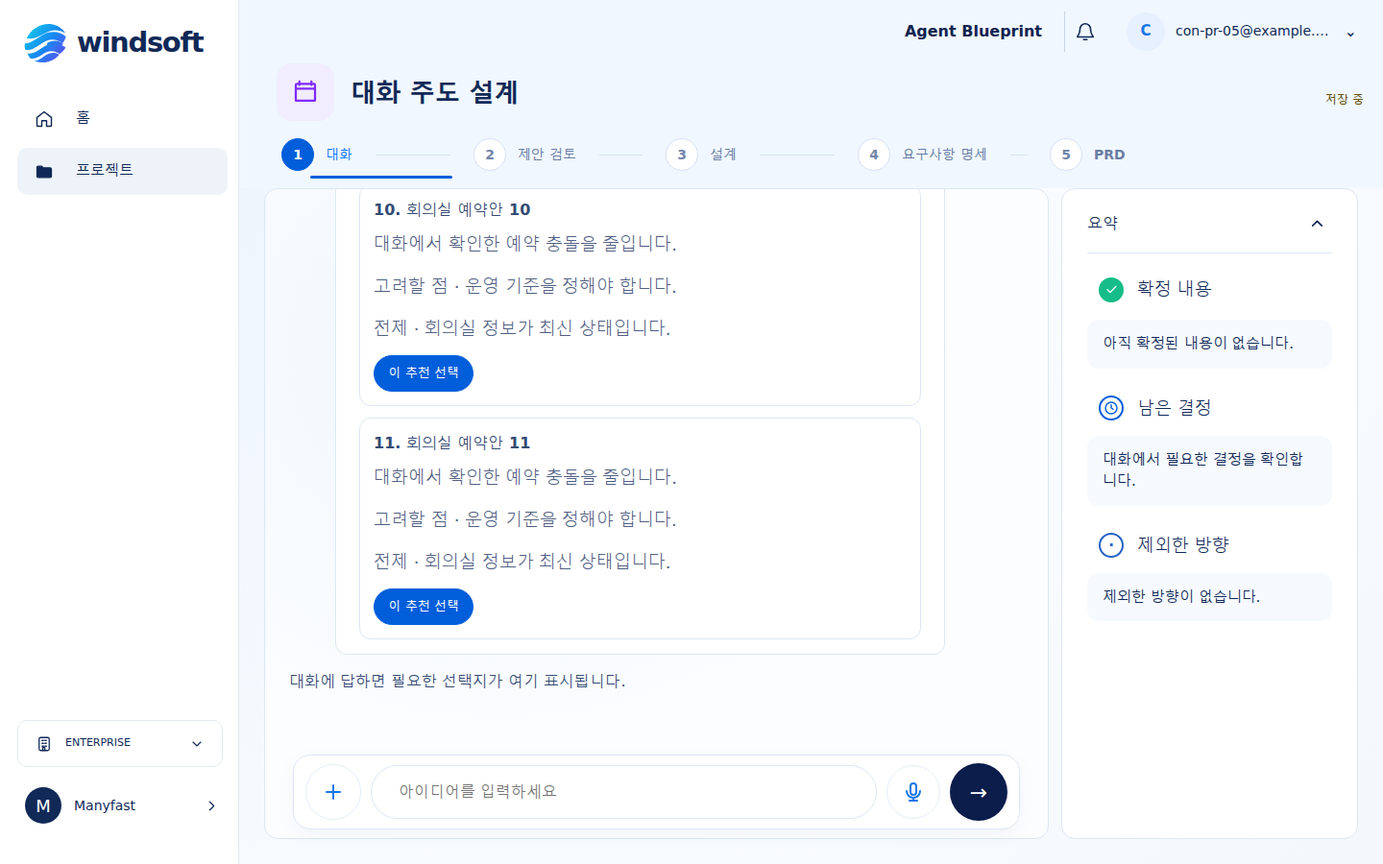
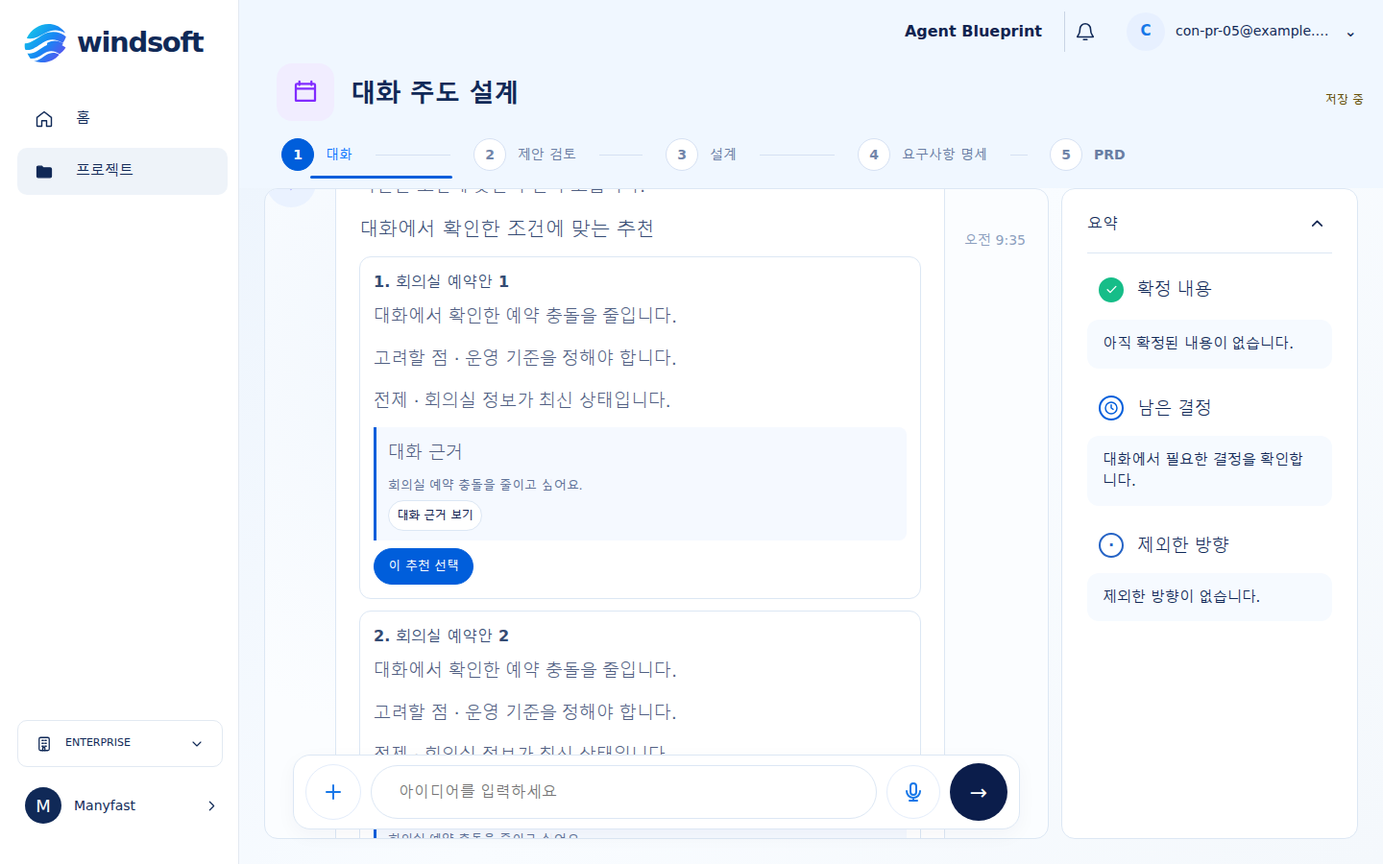
Persist and ground conversational turns

Changed region(s): [[0.2188, 0.2178, 0.5, 0.8711], [0.3125, 0.9644, 0.3438, 0.9956]]

diff --git a/tests/e2e/con-pr-05-conversation-flow.spec.ts b/tests/e2e/con-pr-05-conversation-flow.spec.ts
@@ -22,7 +22,7 @@ test.beforeEach(async({page})=>{
 
 test('free conversation, generated choice, eleven grounded candidates, approval and source navigation',async({page},testInfo)=>{
   const recommendationBlock={type:'recommendation_candidates',id:'recommendations-1',candidates:Array.from({length:11},(_,index)=>({
-    id:`candidate-${index+1}`,title:`회의실 예약안 ${index+1}`,rationale:'대화에서 확인한 예약 충돌을 줄입니다.',tradeoffs:['운영 기준을 정해야 합니다.'],assumptions:['회의실 정보가 최신 상태입니다.'],evidence:[{sourceType:'message',sourceId:'pending'}],
+    id:`candidate-${index+1}`,title:`회의실 예약안 ${index+1}`,rationale:'대화에서 확인한 예약 충돌을 줄입니다.',tradeoffs:['운영 기준을 정해야 합니다.'],assumptions:['회의실 정보가 최신 상태입니다.'],evidence:[{sourceType:'message',sourceId:'pending',excerpt:'회의실 예약 충돌을 줄이고 싶어요.'}],
     proposalDraft:{operation:'create',targetType:'design_item',after:{type:'requirement',title:`회의실 예약안 ${index+1}`,description:'회의실 예약 충돌을 사전에 확인합니다.'},rationale:'사용자가 선택한 추천안입니다.',evidence:[{sourceType:'message',sourceId:'pending'}],affectedItemIds:[]},
   }))};
   const requests:any[]=[];
@@ -30,6 +30,7 @@ test('free conversation, generated choice, eleven grounded candidates, approval 
   let readyRequest:any;
   let requirementsGenerateCalls=0;
   let prdGenerateRequest:any;
+  let recommendationSourceTurnId='';
   await page.route('**/api/blueprint/turn',async(route)=>{
     const body=route.request().postDataJSON();requests.push(body);
     if(body.userTurn.kind==='text'&&body.userTurn.text.includes('예약 충돌을 줄이고 싶어요')){
@@ -41,6 +42,7 @@ test('free conversation, generated choice, eleven grounded candidates, approval 
       return;
     }
     if(body.userTurn.kind==='text'&&body.userTurn.text.includes('추천해 주세요')){
+      recommendationSourceTurnId=body.userTurn.id;
       recommendationBlock.candidates.forEach((candidate)=>{candidate.evidence[0].sourceId=body.userTurn.id;candidate.proposalDraft.evidence[0].sourceId=body.userTurn.id;});
       await route.fulfill({status:200,json:{assistantMessage:'확인한 조건에 맞는 추천 후보입니다.',proposals:[],recommendationCandidates:recommendationBlock,referencedItemIds:[],referencedSourceIds:[]}});
       return;
@@ -103,6 +105,9 @@ test('free conversation, generated choice, eleven grounded candidates, approval 
   await page.getByRole('button',{name:'AI로 답변 분석'}).click();
   await expect(page.getByRole('heading',{name:'대화에서 확인한 조건에 맞는 추천'})).toBeVisible();
   await expect(page.getByRole('button',{name:'이 추천 선택'})).toHaveCount(11);
+  await expect(page.locator('.recommendation-candidates li').first().getByText('회의실 예약 충돌을 줄이고 싶어요.',{exact:true})).toBeVisible();
+  await page.getByRole('button',{name:'대화 근거 보기'}).first().click();
+  await expect(page.locator(`#conversation-message-${recommendationSourceTurnId}`)).toBeFocused();
   await expect(page.locator('.ai-turn-cancel')).toBeHidden();
   await page.screenshot({path:`.pr-artifacts/CON-PR-05/${testInfo.project.name}-recommendation-11.png`,scale:'css'});
   await page.getByRole('button',{name:'이 추천 선택'}).first().click();
@@ -223,6 +228,7 @@ test('renders number, range and rank follow-ups as typed decision controls',asyn
   await page.getByRole('checkbox',{name:/충돌 방지/}).check();
   await page.getByRole('button',{name:'collision 순위 위로'}).click();
   await page.getByRole('button',{name:'답변 제출'}).last().click();
+  await expect(page.locator('.workspace-message-assistant').filter({hasText:'정한 기준을 기록했습니다.'})).toBeVisible();
   expect(submissions[0].userTurn.text).toContain('예약 수용량');
   expect(submissions[1].userTurn.text).toBe('24');
   expect(submissions[2].userTurn.text).toBe('9–18');
@@ -260,4 +266,73 @@ test('insufficient recommendation context asks one contextual follow-up without 
   expect(response).not.toHaveProperty('recommendationCandidates');
   expect(response.followUp.prompt).toBe('어떤 점을 우선해서 비교할까요?');
   await page.screenshot({path:`.pr-artifacts/CON-PR-05/${testInfo.project.name}-insufficient-recommendation-context.png`,scale:'css'});
+});
+
+test('persists each turn before dispatch and before showing the assistant result, retaining input for retry',async({page})=>{
+  const requests:any[]=[];
+  const ownerKey=await deriveOwnerKey(identity);
+  const databaseName=databaseNameForOwner(ownerKey);
+  const userPersistedAtDispatch:boolean[]=[];
+  await page.route('**/api/blueprint/turn',async(route)=>{
+    const body=route.request().postDataJSON();
+    requests.push(body);
+    userPersistedAtDispatch.push(await page.evaluate(async({databaseName,projectId,userTurnId})=>{
+      const db=await new Promise<IDBDatabase>((resolve,reject)=>{const req=indexedDB.open(databaseName,1);req.onsuccess=()=>resolve(req.result);req.onerror=()=>reject(req.error);});
+      const tx=db.transaction('projects');
+      const record=await new Promise<any>((resolve,reject)=>{const req=tx.objectStore('projects').get(projectId);req.onsuccess=()=>resolve(req.result);req.onerror=()=>reject(req.error);});
+      await new Promise<void>((resolve,reject)=>{tx.oncomplete=()=>resolve();tx.onerror=()=>reject(tx.error);});db.close();
+      return record.messages.some((message:any)=>message.id===userTurnId&&message.role==='user');
+    },{databaseName,projectId,userTurnId:body.userTurn.id}));
+    await route.fulfill({status:200,json:{assistantMessage:'저장된 응답입니다.',proposals:[],referencedItemIds:[],referencedSourceIds:[]}});
+  });
+  await page.goto(`/blueprints/${projectId}`);
+  await page.evaluate(()=>{
+    const original=IDBObjectStore.prototype.put;
+    (window as any).__turnPersistenceFailures={user:true,assistant:true};
+    IDBObjectStore.prototype.put=function(value:any,...args:any[]){
+      const messages=value?.messages??[];
+      if(messages.some((message:any)=>message.role==='user'&&message.content==='예약 충돌을 줄이고 싶어요.')&&(window as any).__turnPersistenceFailures.user){
+        (window as any).__turnPersistenceFailures.user=false;
+        throw new DOMException('Injected user-turn save failure','QuotaExceededError');
+      }
+      if(messages.some((message:any)=>message.role==='assistant'&&message.content==='저장된 응답입니다.')&&(window as any).__turnPersistenceFailures.assistant){
+        (window as any).__turnPersistenceFailures.assistant=false;
+        throw new DOMException('Injected assistant-turn save failure','QuotaExceededError');
+      }
+      return original.call(this,value,...args);
+    };
+  });
+  const draft=page.getByRole('textbox',{name:'AI에 보낼 자유 답변'});
+  await draft.fill('예약 충돌을 줄이고 싶어요.');
+  await page.getByRole('button',{name:'AI로 답변 분석'}).click();
+  await page.getByRole('button',{name:'동의하고 계속'}).click();
+  await expect(page.locator('.ai-turn-composer [role="alert"]')).toContainText('저장하지 못해 요청을 보내지 않았습니다');
+  expect(requests).toHaveLength(0);
+  await expect(draft).toHaveValue('예약 충돌을 줄이고 싶어요.');
+  await expect(page.locator('.workspace-first-message').getByText('예약 충돌을 줄이고 싶어요.',{exact:true})).toHaveCount(0);
+
+  await page.getByRole('button',{name:'AI로 답변 분석'}).click();
+  await expect(page.locator('.ai-turn-composer [role="alert"]')).toContainText('응답을 저장하지 못했습니다');
+  expect(requests).toHaveLength(1);
+  await expect(page.getByText('저장된 응답입니다.',{exact:true})).toHaveCount(0);
+  await expect(page.locator('.workspace-first-message').getByText('예약 충돌을 줄이고 싶어요.',{exact:true})).toBeVisible();
+  await expect(draft).toHaveValue('예약 충돌을 줄이고 싶어요.');
+
+  await page.getByRole('button',{name:'AI로 답변 분석'}).click();
+  await expect(page.getByText('저장된 응답입니다.',{exact:true})).toBeVisible();
+  expect(requests).toHaveLength(2);
+  expect(userPersistedAtDispatch).toEqual([true,true]);
+  expect(requests[1].logicalRequestId).toBe(requests[0].logicalRequestId);
+  expect(requests[1].userTurn.id).toBe(requests[0].userTurn.id);
+  expect(requests[1].attemptId).not.toBe(requests[0].attemptId);
+  await expect(draft).toHaveValue('');
+  await expect(page.locator('.workspace-first-message').getByText('예약 충돌을 줄이고 싶어요.',{exact:true})).toHaveCount(1);
+  const persisted=await page.evaluate(async({databaseName,projectId})=>{
+    const db=await new Promise<IDBDatabase>((resolve,reject)=>{const req=indexedDB.open(databaseName,1);req.onsuccess=()=>resolve(req.result);req.onerror=()=>reject(req.error);});
+    const tx=db.transaction('projects');
+    const record=await new Promise<any>((resolve,reject)=>{const req=tx.objectStore('projects').get(projectId);req.onsuccess=()=>resolve(req.result);req.onerror=()=>reject(req.error);});
+    await new Promise<void>((resolve,reject)=>{tx.oncomplete=()=>resolve();tx.onerror=()=>reject(tx.error);});db.close();
+    return record.messages.filter((message:any)=>message.content==='예약 충돌을 줄이고 싶어요.'||message.content==='저장된 응답입니다.').map((message:any)=>({role:message.role,content:message.content}));
+  },{databaseName,projectId});
+  expect(persisted).toEqual([{role:'user',content:'예약 충돌을 줄이고 싶어요.'},{role:'assistant',content:'저장된 응답입니다.'}]);
 });

diff --git a/src/components/blueprint/display-blocks/DisplayBlocks.tsx b/src/components/blueprint/display-blocks/DisplayBlocks.tsx
@@ -1,4 +1,4 @@
-import type { DisplayBlock, QuestionSpec } from '../../../domain/blueprint/types.js';
+import type { ConversationMessage, DisplayBlock, QuestionSpec } from '../../../domain/blueprint/types.js';
 import { prepareDisplayBlocks } from '../../../features/conversation/block-renderer.js';
 import { QuestionCard } from '../../conversation/QuestionCard.js';
 import type { CatalogQuestion } from '../../../features/conversation/questionEngine.js';
@@ -7,13 +7,13 @@ import type { ContextualResponse } from '../../conversation/ContextualQuestionCa
 
 type QuestionAnswerDraft = { action:'answer'|'unknown'|'recommend'|'defer'|'skip'; selectedValues:string[]; customText:string; numberValue?:number; rangeValue?:{start:number;end:number}; rankedValues?:string[] };
 
-export function DisplayBlocks({ blocks, questionCatalog = [], proposalIds = [], messageId, onContextualSubmit, onQuestionSubmit }: { blocks: unknown[]; questionCatalog?: QuestionSpec[]; proposalIds?: string[]; messageId?:string; onContextualSubmit?:(response:ContextualResponse)=>void; onQuestionSubmit?: (question:CatalogQuestion,answer:QuestionAnswerDraft,mode:CatalogQuestion['answerMode'])=>void }) {
+export function DisplayBlocks({ blocks, questionCatalog = [], proposalIds = [], messages = [], messageId, onNavigateSource, onContextualSubmit, onQuestionSubmit }: { blocks: unknown[]; questionCatalog?: QuestionSpec[]; proposalIds?: string[]; messages?:ConversationMessage[]; messageId?:string; onNavigateSource?:(messageId:string)=>void; onContextualSubmit?:(response:ContextualResponse)=>void; onQuestionSubmit?: (question:CatalogQuestion,answer:QuestionAnswerDraft,mode:CatalogQuestion['answerMode'])=>void }) {
   const result = prepareDisplayBlocks(blocks, { questionCatalog, proposalIds });
   if (!result.valid) return <p role="alert">AI 응답을 표시할 수 없습니다. (AI_INVALID_OUTPUT)</p>;
   return <div className="ai-display-blocks">{result.blocks.map((block, index) => <article className={`ai-block ai-block-${block.type}`} key={`${block.type}-${index}`}>
     {block.type === 'assistant_text' ? <p>{block.content}</p> : null}
     {block.type === 'question' ? messageId && onContextualSubmit ? <ContextualQuestionCard question={block} messageId={messageId} onSubmit={onContextualSubmit} /> : (() => { const candidate = questionCatalog.find((question) => question.id === block.id); return candidate && onQuestionSubmit ? <QuestionCard question={candidate as CatalogQuestion} onSubmit={(answer,mode)=>onQuestionSubmit(candidate as CatalogQuestion,answer,mode)} /> : <p role="alert">질문을 표시할 수 없습니다. (AI_INVALID_OUTPUT)</p>; })() : null}
-    {block.type === 'recommendation_candidates' ? <section className="recommendation-candidates" aria-labelledby={`recommendations-${block.id}`}><h2 id={`recommendations-${block.id}`}>대화에서 확인한 조건에 맞는 추천</h2><ol>{block.candidates.map((candidate,index)=><li key={candidate.id}><article><h3>{index+1}. {candidate.title}</h3><p>{candidate.rationale}</p>{candidate.tradeoffs.length ? <p><strong>고려할 점</strong> · {candidate.tradeoffs.join(' · ')}</p> : null}{candidate.assumptions.length ? <p><strong>전제</strong> · {candidate.assumptions.join(' · ')}</p> : null}<button type="button" disabled={!messageId || !onContextualSubmit} onClick={()=>onContextualSubmit?.({kind:'recommendation_choice',text:`추천 ${index+1}번을 선택합니다: ${candidate.title}`,responseTo:{messageId:messageId!,blockId:block.id,selectedValues:[],choiceId:candidate.id}})}>이 추천 선택</button></article></li>)}</ol></section> : null}
+    {block.type === 'recommendation_candidates' ? <section className="recommendation-candidates" aria-labelledby={`recommendations-${block.id}`}><h2 id={`recommendations-${block.id}`}>대화에서 확인한 조건에 맞는 추천</h2><ol>{block.candidates.map((candidate,index)=><li key={candidate.id}><article><h3>{index+1}. {candidate.title}</h3><p>{candidate.rationale}</p>{candidate.tradeoffs.length ? <p><strong>고려할 점</strong> · {candidate.tradeoffs.join(' · ')}</p> : null}{candidate.assumptions.length ? <p><strong>전제</strong> · {candidate.assumptions.join(' · ')}</p> : null}<div className="recommendation-evidence-list" aria-label={`${index+1}번 추천 근거`}>{candidate.evidence.map((evidence,evidenceIndex)=>{const sourceMessage=evidence.sourceType==='message'?messages.find((message)=>message.id===evidence.sourceId):undefined;const provenance=evidence.sourceType==='message'?'대화 근거':evidence.sourceType==='file'?'자료 근거':evidence.sourceType==='user_edit'?'사용자 수정 근거':'AI 추론';return <div className="recommendation-evidence" key={`${evidence.sourceType}-${evidence.sourceId}-${evidenceIndex}`}><p><strong>{provenance}</strong>{evidence.location?` · ${evidence.location}`:''}</p>{evidence.excerpt||sourceMessage?<blockquote>{evidence.excerpt||sourceMessage?.content}</blockquote>:<p>출처 위치: {evidence.sourceId}</p>}{sourceMessage&&onNavigateSource?<button className="recommendation-source-link" type="button" onClick={()=>onNavigateSource(sourceMessage.id)}>대화 근거 보기</button>:null}</div>;})}</div><button type="button" disabled={!messageId || !onContextualSubmit} onClick={()=>onContextualSubmit?.({kind:'recommendation_choice',text:`추천 ${index+1}번을 선택합니다: ${candidate.title}`,responseTo:{messageId:messageId!,blockId:block.id,selectedValues:[],choiceId:candidate.id}})}>이 추천 선택</button></article></li>)}</ol></section> : null}
     {block.type === 'explanation' ? <section><h2>{block.title}</h2><p>{block.summary}</p>{block.comparisons.map((item) => <p key={item.label}><strong>{item.label}</strong> {item.description}</p>)}{block.example ? <p>{block.example}</p> : null}</section> : null}
     {block.type === 'recommendation' ? <section><h2>추천</h2><p>{block.recommendedValue} — {block.rationale}</p><ul>{block.tradeoffs.map((item) => <li key={item}>{item}</li>)}</ul></section> : null}
     {block.type === 'proposal_summary' || block.type === 'conflict_notice' ? <p>{block.type === 'conflict_notice' ? '검토할 충돌이 있습니다.' : '검토할 변경 제안이 있습니다.'} ({block.proposalIds.length})</p> : null}

diff --git a/src/components/conversation/AiTurnComposer.tsx b/src/components/conversation/AiTurnComposer.tsx
@@ -29,6 +29,7 @@ export function AiTurnComposer({ aggregate, projectId, onAggregateChange, persis
   const [confirmedUnknownJobId, setConfirmedUnknownJobId] = useState<string|null>(null);
   useEffect(() => { const timer=window.setInterval(()=>setRecoveryNow(Date.now()),60_000); return ()=>window.clearInterval(timer); }, []);
   const controllerRef = useRef<AbortController|null>(null);
+  const pendingTurnRef = useRef<{text:string;logicalRequestId:string;userMessage:ConversationMessage}|null>(null);
   const aggregateRef = useRef(aggregate);
   aggregateRef.current = aggregate;
   const unknownJob = aggregate.generationJobs.filter((item)=>item.errorCode==='AI_REQUEST_UNKNOWN').sort((a,b)=>(b.finishedAt??'').localeCompare(a.finishedAt??''))[0];
@@ -73,9 +74,17 @@ export function AiTurnComposer({ aggregate, projectId, onAggregateChange, persis
       if (!valid.valid) throw new Error('AI_INVALID_OUTPUT');
       const message: ConversationMessage = { id:crypto.randomUUID(), threadId:latest.thread.id, logicalRequestId, role:'assistant',kind:'text',content:data.assistantMessage,blocks:nextBlocks,createdAt:new Date().toISOString() };
       const succeededJob: GenerationJob = {...nextJob,status:'succeeded',finishedAt:new Date().toISOString()};
-      setJob(succeededJob);
       const updated: BlueprintAggregate = {...latest,messages:[...latest.messages,message],proposals:[...latest.proposals,...proposals],generationJobs:[...latest.generationJobs.filter((item)=>item.id!==nextJob.id),succeededJob]};
+      try {
+        await persistAggregate(updated);
+      } catch {
+        updateJob({...nextJob,status:'failed',errorCode:'STORAGE_FAILED',finishedAt:new Date().toISOString()});
+        setError('응답을 저장하지 못했습니다. 입력을 유지한 채 다시 시도할 수 있습니다.');
+        return;
+      }
+      setJob(succeededJob);
       aggregateRef.current = updated; onAggregateChange(updated);
+      pendingTurnRef.current = null;
       setDraft(''); setConfirmedUnknownJobId(null);
     } catch (cause) {
       if (controller.signal.aborted) {
@@ -90,12 +99,27 @@ export function AiTurnComposer({ aggregate, projectId, onAggregateChange, persis
   async function submitTurn(text:string, kind:'text'|'choice'|'recommendation_choice'='text', responseTo?:ContextualResponse['responseTo']) {
     const current = aggregateRef.current;
     text = text.trim(); if (!text || busy || recovery.blocked) return;
-    const logicalRequestId = crypto.randomUUID();
-    const now = new Date().toISOString();
-    const userMessage: ConversationMessage = { id:crypto.randomUUID(), threadId:current.thread.id, logicalRequestId, role:'user', kind:'text', content:text, createdAt:now };
-    const withUserMessage = { ...current, messages:[...current.messages,userMessage], project:{ ...current.project, updatedAt:now } };
+    let pending = pendingTurnRef.current;
+    if (!pending || pending.text !== text) {
+      const now = new Date().toISOString();
+      const logicalRequestId = crypto.randomUUID();
+      pending = {text,logicalRequestId,userMessage:{id:crypto.randomUUID(),threadId:current.thread.id,logicalRequestId,role:'user',kind:'text',content:text,createdAt:now}};
+      pendingTurnRef.current = pending;
+    }
+    const {logicalRequestId,userMessage} = pending;
+    const alreadyPersisted = current.messages.some((message)=>message.id===userMessage.id);
+    const withUserMessage = alreadyPersisted ? current : { ...current, messages:[...current.messages,userMessage], project:{ ...current.project, updatedAt:userMessage.createdAt } };
+    setBusy(true); setError(null);
+    try {
+      if (!alreadyPersisted) await persistAggregate(withUserMessage);
+    } catch {
+      setBusy(false);
+      setError('입력을 저장하지 못해 요청을 보내지 않았습니다. 입력은 유지됩니다.');
+      return;
+    }
     aggregateRef.current = withUserMessage; onAggregateChange(withUserMessage);
-    const context = compactConversationContext({messages:current.messages,summary:current.thread.summary,threshold:20});
+    const contextMessagesBeforeTurn = current.messages.filter((message)=>message.id!==userMessage.id);
+    const context = compactConversationContext({messages:contextMessagesBeforeTurn,summary:current.thread.summary,threshold:20});
     const contextMessages = context.compacted ? [{id:`summary-${projectId}`,role:'assistant' as const,kind:'text' as const,content:JSON.stringify(context.summary)},...context.originalMessages] : context.originalMessages.filter((message)=>message.role!=='system');
     const sourceExcerpts = selectSourceExcerpts({ projectId, query:[text].filter(Boolean).join('\n'), sources:current.sources });
     const payload = { projectSummary:{projectId,title:current.project.title,designRevision:current.project.designRevision ?? 0}, userTurn:{id:userMessage.id,kind,text,...(responseTo ? {responseTo} : {})}, recentMessages:contextMessages.map((message)=>({id:message.id,role:message.role,kind:message.kind==='question'?'question' as const:'text' as const,content:message.content,...('blocks' in message && message.blocks ? {blocks:message.blocks} : {})})), relevantDesignItems:current.designItems.filter((item)=>item.status==='confirmed').map(({id,type,key,title,description,attributes})=>({id,type,...(key?{key}:{}),title,description,attributes})), sources:sourceExcerpts };

diff --git a/src/pages/ProjectPage.tsx b/src/pages/ProjectPage.tsx
@@ -340,6 +340,7 @@ export function ProjectPage({ repositoryFactory = getIndexedDbProjectRepository 
 
   async function persistAggregateNow(snapshot: BlueprintAggregate) {
     if (!ownerKey || !projectId || snapshot.project.id !== projectId) throw new Error("PROJECT_CONTEXT_STALE");
+    await flushProposalAutosave();
     await repositoryFactory().save(ownerKey, snapshot);
   }
 
@@ -843,7 +844,7 @@ export function ProjectPage({ repositoryFactory = getIndexedDbProjectRepository 
             <div id={firstVisibleUserMessage ? `conversation-message-${firstVisibleUserMessage.id}` : undefined} tabIndex={firstVisibleUserMessage ? -1 : undefined} className="conversation-message-row conversation-message-row-user"><ConversationAvatar role="user" /><article className="workspace-first-message"><span className="workspace-message-label">내 아이디어</span><p>{firstVisibleUserMessage?.content ?? (compactedConversation.compacted ? "요약 아래에 최근 대화가 표시됩니다." : "아직 대화가 없습니다.")}</p></article>{firstVisibleUserMessage?.createdAt ? <time className="conversation-message-time" dateTime={firstVisibleUserMessage.createdAt}>{formatConversationTime(firstVisibleUserMessage.createdAt)}</time> : null}</div>
             {visibleConversationMessages.filter((message) => message.id !== firstVisibleUserMessage?.id).map((message) => <div id={`conversation-message-${message.id}`} tabIndex={-1} key={message.id} className={`conversation-message-row conversation-message-row-${message.role}`}>
               {message.role === "assistant" ? <ConversationAvatar role="assistant" /> : null}
-              <article className={`workspace-message workspace-message-${message.role}`}><span className="workspace-message-label">{message.role === "assistant" ? "Agent" : message.role === "system" ? "작업 상태" : "나"}</span>{message.blocks ? <DisplayBlocks blocks={message.blocks} questionCatalog={QUESTION_CATALOG} proposalIds={aggregate.proposals.map((proposal) => proposal.id)} messageId={message.id} onContextualSubmit={(response)=>void contextualSubmitRef.current?.(response)} onQuestionSubmit={(question,answer,mode)=>saveQuestionAnswer(question,answer,mode)} /> : <p>{message.content}</p>}</article>
+              <article className={`workspace-message workspace-message-${message.role}`}><span className="workspace-message-label">{message.role === "assistant" ? "Agent" : message.role === "system" ? "작업 상태" : "나"}</span>{message.blocks ? <DisplayBlocks blocks={message.blocks} questionCatalog={QUESTION_CATALOG} proposalIds={aggregate.proposals.map((proposal) => proposal.id)} messages={aggregate.messages} messageId={message.id} onNavigateSource={navigateToSourceMessage} onContextualSubmit={(response)=>void contextualSubmitRef.current?.(response)} onQuestionSubmit={(question,answer,mode)=>saveQuestionAnswer(question,answer,mode)} /> : <p>{message.content}</p>}</article>
               {message.createdAt ? <time className="conversation-message-time" dateTime={message.createdAt}>{formatConversationTime(message.createdAt)}</time> : null}
             </div>)}
             {aggregate.generationJobs.filter((job) => job.status === "queued" || job.status === "running").map((job) => <GenerationJobStatus key={job.id} job={job} onCancel={cancelGenerationJob} />)}

diff --git a/tests/contract/con-pr-05-turn-contract.test.js b/tests/contract/con-pr-05-turn-contract.test.js
@@ -75,3 +75,18 @@ test('contextual follow-up rejects model-assigned IDs, arbitrary actions, and ex
   assert.equal(validateTurnAnalyzeV3({ ...validPayload, followUp: { ...choice, prompt: '<script>alert(1)</script>' } }, { text: '안녕하세요.' }).valid, false);
   assert.equal(validateTurnAnalyzeV3({ ...validPayload, followUp: { ...choice, options: [...choice.options, choice.options[0]] } }, { text: '안녕하세요.' }).valid, false);
 });
+
+test('turn contract rejects executable copy nested in proposal and recommendation fields', () => {
+  const proposal = { operation: 'create', targetType: 'design_item', after: { type: 'requirement', title: '안전한 제목', description: '<img src=x onerror=alert(1)>' }, rationale: '근거 있는 제안', evidence: [{ sourceType: 'message', sourceId: 'user-turn-1', excerpt: '안전한 근거' }], affectedItemIds: [] };
+  const nestedProposal = { ...validPayload, proposals: [{ ...proposal }] };
+  assert.equal(validateTurnAnalyzeV3(nestedProposal, { text: '예약 정책을 정리해 주세요.' }).valid, false);
+
+  const recommendations = Array.from({ length: 11 }, (_, index) => ({
+    title: `후보 ${index + 1}`, rationale: '현재 확인한 조건에 맞습니다.', tradeoffs: [], assumptions: [],
+    evidence: [{ sourceType: 'message', sourceId: 'user-turn-1' }], proposal: { ...proposal, after: { ...proposal.after, description: '안전한 설명' } },
+  }));
+  recommendations[4].evidence[0].excerpt = 'javascript:alert(1)';
+  const unsafeRecommendation = { ...validPayload, followUp: undefined, recommendations };
+  delete unsafeRecommendation.followUp;
+  assert.equal(validateTurnAnalyzeV3(unsafeRecommendation, { text: '추천해 주세요. 회의실 예약 충돌을 줄이고 싶어요.' }).valid, false);
+});

diff --git a/src/styles/question-card.css b/src/styles/question-card.css
@@ -36,6 +36,12 @@
 .recommendation-candidates h3,.recommendation-candidates p { margin: 0; }
 .recommendation-candidates h3 { font-size: 16px; line-height: 1.45; }
 .recommendation-candidates p { color: var(--color-text-muted); font-size: 13px; line-height: 1.5; }
+.recommendation-evidence-list { display: grid; gap: 8px; }
+.recommendation-evidence { display: grid; justify-items: start; gap: 5px; padding: 10px 12px; border-left: 3px solid var(--color-primary); border-radius: 0 8px 8px 0; background: var(--color-surface-muted, #f4f5f7); }
+.recommendation-evidence p { color: var(--color-text-strong); }
+.recommendation-evidence blockquote { margin: 0; color: var(--color-text-muted); font-size: 13px; line-height: 1.5; }
+.recommendation-candidates .recommendation-source-link { min-height: 32px; padding: 4px 8px; border-color: var(--color-border); background: transparent; color: var(--color-text-strong); font-size: 12px; font-weight: 600; }
+.recommendation-candidates .recommendation-source-link:hover { background: var(--color-surface); }
 .recommendation-candidates button { justify-self: start; min-height: 38px; padding: 8px 14px; border: 1px solid var(--color-primary); border-radius: 999px; background: var(--color-primary); color: var(--color-on-primary, #fff); font: inherit; font-size: 13px; font-weight: 650; cursor: pointer; }
 .recommendation-candidates button:hover { background: var(--color-primary-strong, #124da0); }
 .recommendation-candidates button:focus-visible { outline: 3px solid var(--color-focus); outline-offset: 2px; }

diff --git a/src/infrastructure/ai/conversation-turn-contract.js b/src/infrastructure/ai/conversation-turn-contract.js
@@ -10,6 +10,12 @@ const componentModes = Object.freeze({
 
 const explicitRecommendation = (text) => /(?:추천해\s*(?:줘|주세요|주실래요?|봐)|추천(?:안(?:을)?|을)?\s*(?:부탁(?:해요)?|해줘|해주세요|알려\s*줘|알려\s*주세요)|추천\s*부탁|추천(?:이)?\s*(?:필요해요?|필요합니다)|대안(?:을)?\s*추천해\s*(?:줘|주세요)|(?:please\s+)?(?:recommend|suggest)\s+(?:me|some|a|an|options|ideas|what|which)|(?:can|could)\s+you\s+(?:please\s+)?(?:recommend|suggest))/i.test(String(text ?? ''));
 const unsafeCopy = (text) => /<\/?[a-z][^>]*>|javascript:|data:text\/html/i.test(String(text ?? ''));
+const containsUnsafeCopy = (value) => {
+  if (typeof value === 'string') return unsafeCopy(value);
+  if (Array.isArray(value)) return value.some(containsUnsafeCopy);
+  if (value && typeof value === 'object') return Object.values(value).some(containsUnsafeCopy);
+  return false;
+};
 
 export function hasExplicitRecommendationRequest(text) {
   return explicitRecommendation(text);
@@ -41,7 +47,7 @@ export function validateTurnAnalyzeV3(payload, userTurn) {
     errors.push('insufficient recommendation context must ask a follow-up question');
   }
 
-  if (payload && Object.values(payload).some((value) => typeof value === 'string' && unsafeCopy(value))) errors.push('turn contains unsafe copy');
+  if (containsUnsafeCopy(payload)) errors.push('turn contains unsafe copy');
   return { valid: errors.length === 0, errors };
 }
 

diff --git a/tests/e2e/uir-pr-04-proposal-review.spec.ts b/tests/e2e/uir-pr-04-proposal-review.spec.ts
@@ -37,7 +37,7 @@ test('renders actual proposal data and summary in the proposal stage with comple
   await expect(page.getByRole('heading', { name: '검토할 실제 제안' })).toBeVisible();
   await expect(page.getByRole('heading', { name: '확정 내용' })).toBeVisible();
   await expect(page.locator('.proposal-stage-summary .conversation-summary-icon.is-confirmed')).toBeVisible();
-  await expect(page.getByText('확정된 실제 내용')).toBeVisible();
+  await expect(page.locator('.proposal-stage-summary').getByText('확정된 실제 내용')).toBeVisible();
   await expect(page.getByRole('heading', { name: '남은 검토' })).toBeVisible();
   await expect(page.locator('.proposal-stage-summary .conversation-summary-icon.is-pending')).toBeVisible();
   await expect(page.locator('.proposal-stage-back-icon')).toBeVisible();

diff --git a/docs/tasks/CON-PR-05/test-results.md b/docs/tasks/CON-PR-05/test-results.md
@@ -6,19 +6,21 @@ Base: `df54aafa654142f11348321754c749588a2fbf9a` (merged CON-PR-04, PR #63).
 
 | Command | Result |
 | --- | --- |
-| `node --test tests/unit/ai/prompt-registry.test.js tests/unit/conversation-question-engine.test.js tests/unit/con-pr-05-*.test.js tests/unit/turn-lifecycle.test.js tests/unit/dsg-pr-01-proposals.test.js tests/unit/dsg-pr-03-readiness.test.js tests/unit/doc-pr-02-requirements-ready.test.js tests/contract/turn-api.test.js tests/contract/con-pr-05-*.test.js tests/contract/doc-pr-01-requirements-api.test.js tests/contract/doc-pr-02-prd-api.test.js tests/contract/doc-pr-02-ready-api.test.js` | 71 passed, 0 failed |
+| `node --test tests/contract/turn-api.test.js tests/contract/con-pr-05-turn-contract.test.js tests/contract/doc-pr-01-requirements-api.test.js tests/contract/doc-pr-02-prd-api.test.js tests/contract/doc-pr-02-ready-api.test.js tests/contract/fnd-ai-schema.test.js tests/contract/fnd-fixtures.test.js tests/unit/con-pr-03.test.js tests/unit/con-pr-05-display-blocks.test.js tests/unit/con-pr-05-decision-summary.test.js tests/unit/ai/prompt-registry.test.js tests/unit/ai/golden-eval.test.js` | 72 passed, 0 failed |
 | `npm run test:golden` | 48/48 synthetic fixtures passed; no provider calls |
-| `npx playwright test tests/e2e/con-pr-05-conversation-flow.spec.ts --project=desktop-chromium --project=mobile-chromium --workers=1 --reporter=line` | 6 passed, 0 failed |
+| `npx playwright test tests/e2e/con-pr-05-conversation-flow.spec.ts tests/e2e/doc-pr-01-requirements-generation.spec.ts tests/e2e/doc-pr-02-prd-readiness.spec.ts tests/e2e/uir-pr-04-proposal-review.spec.ts --project=desktop-chromium --project=mobile-chromium --workers=1` | 17 passed, 0 failed, 1 tablet-only case skipped by its viewport guard |
 | `npm run build` | Passed; Vite emitted the existing >500 kB chunk-size warning |
 | `git diff --check` | Passed |
 
-The browser suite uses deterministic API responses and the existing test-session fixture. It covers freeform input, generated contextual follow-up, 11 grounded recommendations, insufficient recommendation context without padded candidates, pending proposal and explicit approval, aggregate summary/source navigation, the mobile summary dialog, refresh persistence, typed number/range/rank controls, Requirements ready, and a persisted same-revision PRD `review_required` draft after route reload. Google OAuth is outside the requested browser scope. These fixtures verify the application flow, not live provider output.
+The browser suite uses deterministic API responses and the existing test-session fixture. It covers freeform input, generated contextual follow-up, 11 grounded recommendations with visible evidence and source navigation, insufficient recommendation context without padded candidates, pending proposal and explicit approval, aggregate summary/source navigation, the mobile summary dialog, refresh persistence, typed number/range/rank controls, Requirements ready, and a persisted same-revision PRD `review_required` draft after route reload. An injected storage failure verifies that the user turn is persisted before request dispatch, the assistant response is persisted before it appears as successful, and retry keeps the input and request identity. Google OAuth is outside the requested browser scope. These fixtures verify the application flow, not live provider output.
+
+The contract validation recursively rejects unsafe markup and executable text nested in proposal and recommendation fields. Recommendation cards display their evidence excerpt and provenance; message evidence provides a keyboard-accessible navigation action to its source turn.
 
 ## Full-suite result
 
 `npm run test:unit` reported 349 passed and 1 failed. The failing test is `tests/unit/src-pr-01-source-upload-command.test.js` — “removes a source transactionally without replacing sibling records” — where `removeSourceAndReferences` reads `undefined.map`. The same targeted failure was reproduced on clean `main` at `df54aafa`; it is pre-existing and outside this PR's source/conversation changes.
 
-Agent Browser is unavailable in the current environment; Playwright Chromium was used for the complete desktop and mobile flow. Live provider and Google OAuth behavior remain unverified by this validation.
+Agent Browser is unavailable in the current environment; Playwright Chromium was used for the complete desktop and mobile flow. Live provider and Google OAuth behavior remain unverified by this validation. The independent code review and QA remain pending for the final PR HEAD.
 
 ## Screenshot evidence
 

diff --git a/docs/delivery/evidence/CON-PR-05/README.md b/docs/delivery/evidence/CON-PR-05/README.md
@@ -27,4 +27,4 @@ The primary visual reference is [`회의실 예약 서비스 UI 캔버스.png`](
 
 ## Comparison record
 
-The rendered hierarchy retains the approved conversation canvas: stage navigation above a conversation-first workspace, contextual cards inside the conversation, a fixed composer, and a right-side aggregate summary on desktop. Mobile keeps the conversation first and opens the same summary in a keyboard-accessible dialog. The independent QA report will record matched source/render anchor measurements and any material exceptions against the reference.
+The rendered hierarchy retains the approved conversation canvas: stage navigation above a conversation-first workspace, contextual cards inside the conversation, a fixed composer, and a right-side aggregate summary on desktop. Recommendation cards now include source excerpts and an accessible action to move to the cited conversation turn. Mobile keeps the conversation first and opens the same summary in a keyboard-accessible dialog. The independent QA report will record matched source/render anchor measurements and any material exceptions against the reference.
